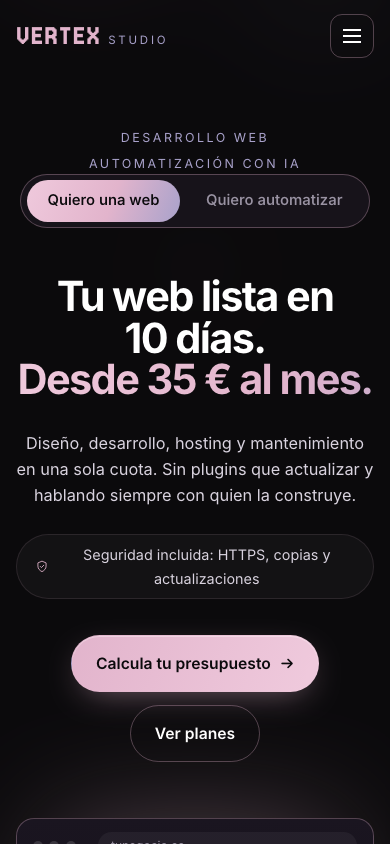
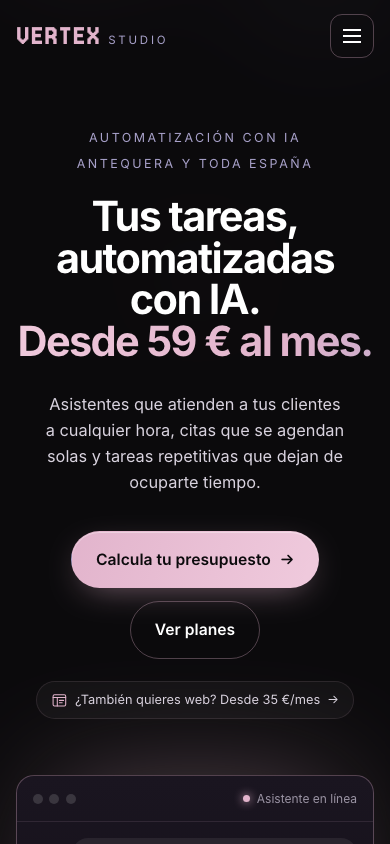
Vertex: capturas y textos del caso con la IA como servicio principal

diff --git a/src/data/contenido.ts b/src/data/contenido.ts
@@ -175,33 +175,33 @@ export const projects: Project[] = [
     name: 'Vertex Studio',
     status: { en: 'Live', es: 'En producción' },
     summary: {
-      en: 'Website for my own studio: subscription-based websites with maintenance included, plus a quote questionnaire.',
-      es: 'Web de mi estudio: webs por cuota mensual con mantenimiento incluido y un cuestionario de presupuesto.',
+      en: 'Website for my own studio, which leads with AI automation (assistants that answer customers at any hour and book appointments on their own) and offers subscription websites as a complementary service, plus a quote questionnaire.',
+      es: 'Web de mi estudio, que pone por delante la automatización con IA (asistentes que atienden a los clientes a cualquier hora y citas que se agendan solas) y ofrece las webs por cuota como servicio complementario, con un cuestionario de presupuesto.',
     },
     role: {
       en: 'Founder, designer and developer: business model, copy, design, build and deployment.',
       es: 'Fundador, diseñador y desarrollador: modelo de negocio, textos, diseño, desarrollo y despliegue.',
     },
     problem: {
-      en: 'My studio needed a site that explains a subscription model (website + maintenance for a monthly fee) clearly and turns visitors into qualified quote requests.',
-      es: 'Mi estudio necesitaba una web que explicara con claridad un modelo por cuota (web + mantenimiento al mes) y convirtiera visitas en peticiones de presupuesto cualificadas.',
+      en: 'My studio needed a site that presents two offers without mixing them up (AI automation as the main service, websites as a complement) and turns visitors into qualified quote requests.',
+      es: 'Mi estudio necesitaba una web que presentara dos ofertas sin mezclarlas (la automatización con IA como servicio principal y las webs como complemento) y convirtiera visitas en peticiones de presupuesto cualificadas.',
     },
     solution: {
-      en: 'A fast static Astro site with transparent plans and a quote questionnaire handled by a Cloudflare Pages Function that emails each request through Resend. Publishing is guarded: the deploy script refuses to go live if legal data is missing or tests fail, and changes are checked first on a non-indexed preview.',
-      es: 'Una web estática y rápida en Astro, con planes transparentes y un cuestionario de presupuesto gestionado por una Pages Function de Cloudflare que envía cada solicitud por email con Resend. La publicación está protegida: el script de despliegue se niega a publicar si faltan datos legales o fallan los tests, y los cambios se revisan antes en una vista previa sin indexar.',
+      en: 'A fast static Astro site whose hero shows the product at work: a CSS-only chat in which the assistant books a customer late at night. AI plans come before web plans, and the quote questionnaire, which offers AI automation first, is handled by a Cloudflare Pages Function that emails each request through Resend. Publishing is guarded: the deploy script refuses to go live if legal data is missing or tests fail, and changes are checked first on a non-indexed preview.',
+      es: 'Una web estática y rápida en Astro cuyo hero enseña el producto funcionando: un chat hecho solo con CSS en el que el asistente agenda una cita a un cliente de madrugada. Los planes de IA van antes que los de web, y el cuestionario de presupuesto, que ofrece primero la automatización, lo gestiona una Pages Function de Cloudflare que envía cada solicitud por email con Resend. La publicación está protegida: el script de despliegue se niega a publicar si faltan datos legales o fallan los tests, y los cambios se revisan antes en una vista previa sin indexar.',
     },
     highlights: {
       en: [
-        'Static Astro site with a serverless function for the quote form (email via Resend)',
+        'Repositioned from websites to AI automation, keeping “web design” in the SEO titles to protect existing rankings',
+        'Animated chat mock-up built only with CSS, with a static version for reduced motion',
         'Pre-deploy checks that block publishing without legal data or green tests',
         'Separate non-indexed preview environment',
-        'Retired the previous version behind a 503 + Retry-After maintenance page, so search engines read it as a temporary outage and rollback was a single deploy',
       ],
       es: [
-        'Astro estático con una función serverless para el cuestionario (email con Resend)',
+        'Reposicionada de webs a automatización con IA, manteniendo «diseño web» en los títulos SEO para no perder lo posicionado',
+        'Maqueta de chat animada solo con CSS, con versión estática para «reducir movimiento»',
         'Comprobaciones previas que impiden publicar sin datos legales o con tests en rojo',
         'Entorno de vista previa aparte y sin indexar',
-        'La versión anterior se retiró tras una página de mantenimiento 503 + Retry-After, para que Google lo leyera como caída temporal y volver atrás fuera un solo despliegue',
       ],
     },
     stack: [

diff --git a/docs/contenido.md b/docs/contenido.md
@@ -81,16 +81,16 @@
 - Estado: En producción / Live
 - URL: https://vertexstudiolab.es
 - Stack: Astro, Cloudflare Pages + Pages Functions, Resend, node:test
-- Resumen EN: Website for my own studio: subscription-based websites with maintenance included, plus a quote questionnaire.
-- Resumen ES: Web de mi estudio: webs por cuota mensual con mantenimiento incluido y un cuestionario de presupuesto.
+- Resumen EN: Website for my own studio, which leads with AI automation (assistants that answer customers at any hour and book appointments on their own) and offers subscription websites as a complementary service, plus a quote questionnaire.
+- Resumen ES: Web de mi estudio, que pone por delante la automatización con IA (asistentes que atienden a los clientes a cualquier hora y citas que se agendan solas) y ofrece las webs por cuota como servicio complementario, con un cuestionario de presupuesto.
 - Rol EN: Founder, designer and developer: business model, copy, design, build and deployment.
 - Rol ES: Fundador, diseñador y desarrollador: modelo de negocio, textos, diseño, desarrollo y despliegue.
-- Problema EN: My studio needed a site that explains a subscription model (website + maintenance for a monthly fee) clearly and turns visitors into qualified quote requests.
-- Problema ES: Mi estudio necesitaba una web que explicara con claridad un modelo por cuota (web + mantenimiento al mes) y convirtiera visitas en peticiones de presupuesto cualificadas.
-- Solución EN: A fast static Astro site with transparent plans and a quote questionnaire handled by a Cloudflare Pages Function that emails each request through Resend. Publishing is guarded: the deploy script refuses to go live if legal data is missing or tests fail, and changes are checked first on a non-indexed preview.
-- Solución ES: Una web estática y rápida en Astro, con planes transparentes y un cuestionario de presupuesto gestionado por una Pages Function de Cloudflare que envía cada solicitud por email con Resend. La publicación está protegida: el script de despliegue se niega a publicar si faltan datos legales o fallan los tests, y los cambios se revisan antes en una vista previa sin indexar.
-- Highlights EN: Static Astro site with a serverless function for the quote form (email via Resend) · Pre-deploy checks that block publishing without legal data or green tests · Separate non-indexed preview environment · Retired the previous version behind a 503 + Retry-After maintenance page, so search engines read it as a temporary outage and rollback was a single deploy
-- Highlights ES: Astro estático con una función serverless para el cuestionario (email con Resend) · Comprobaciones previas que impiden publicar sin datos legales o con tests en rojo · Entorno de vista previa aparte y sin indexar · La versión anterior se retiró tras una página de mantenimiento 503 + Retry-After, para que Google lo leyera como caída temporal y volver atrás fuera un solo despliegue
+- Problema EN: My studio needed a site that presents two offers without mixing them up (AI automation as the main service, websites as a complement) and turns visitors into qualified quote requests.
+- Problema ES: Mi estudio necesitaba una web que presentara dos ofertas sin mezclarlas (la automatización con IA como servicio principal y las webs como complemento) y convirtiera visitas en peticiones de presupuesto cualificadas.
+- Solución EN: A fast static Astro site whose hero shows the product at work: a CSS-only chat in which the assistant books a customer late at night. AI plans come before web plans, and the quote questionnaire, which offers AI automation first, is handled by a Cloudflare Pages Function that emails each request through Resend. Publishing is guarded: the deploy script refuses to go live if legal data is missing or tests fail, and changes are checked first on a non-indexed preview.
+- Solución ES: Una web estática y rápida en Astro cuyo hero enseña el producto funcionando: un chat hecho solo con CSS en el que el asistente agenda una cita a un cliente de madrugada. Los planes de IA van antes que los de web, y el cuestionario de presupuesto, que ofrece primero la automatización, lo gestiona una Pages Function de Cloudflare que envía cada solicitud por email con Resend. La publicación está protegida: el script de despliegue se niega a publicar si faltan datos legales o fallan los tests, y los cambios se revisan antes en una vista previa sin indexar.
+- Highlights EN: Repositioned from websites to AI automation, keeping “web design” in the SEO titles to protect existing rankings · Animated chat mock-up built only with CSS, with a static version for reduced motion · Pre-deploy checks that block publishing without legal data or green tests · Separate non-indexed preview environment
+- Highlights ES: Reposicionada de webs a automatización con IA, manteniendo «diseño web» en los títulos SEO para no perder lo posicionado · Maqueta de chat animada solo con CSS, con versión estática para «reducir movimiento» · Comprobaciones previas que impiden publicar sin datos legales o con tests en rojo · Entorno de vista previa aparte y sin indexar
 
 ### dracontreras — Dra. Isabel Contreras · Portfolio profesional
 - Estado: En producción / Live
